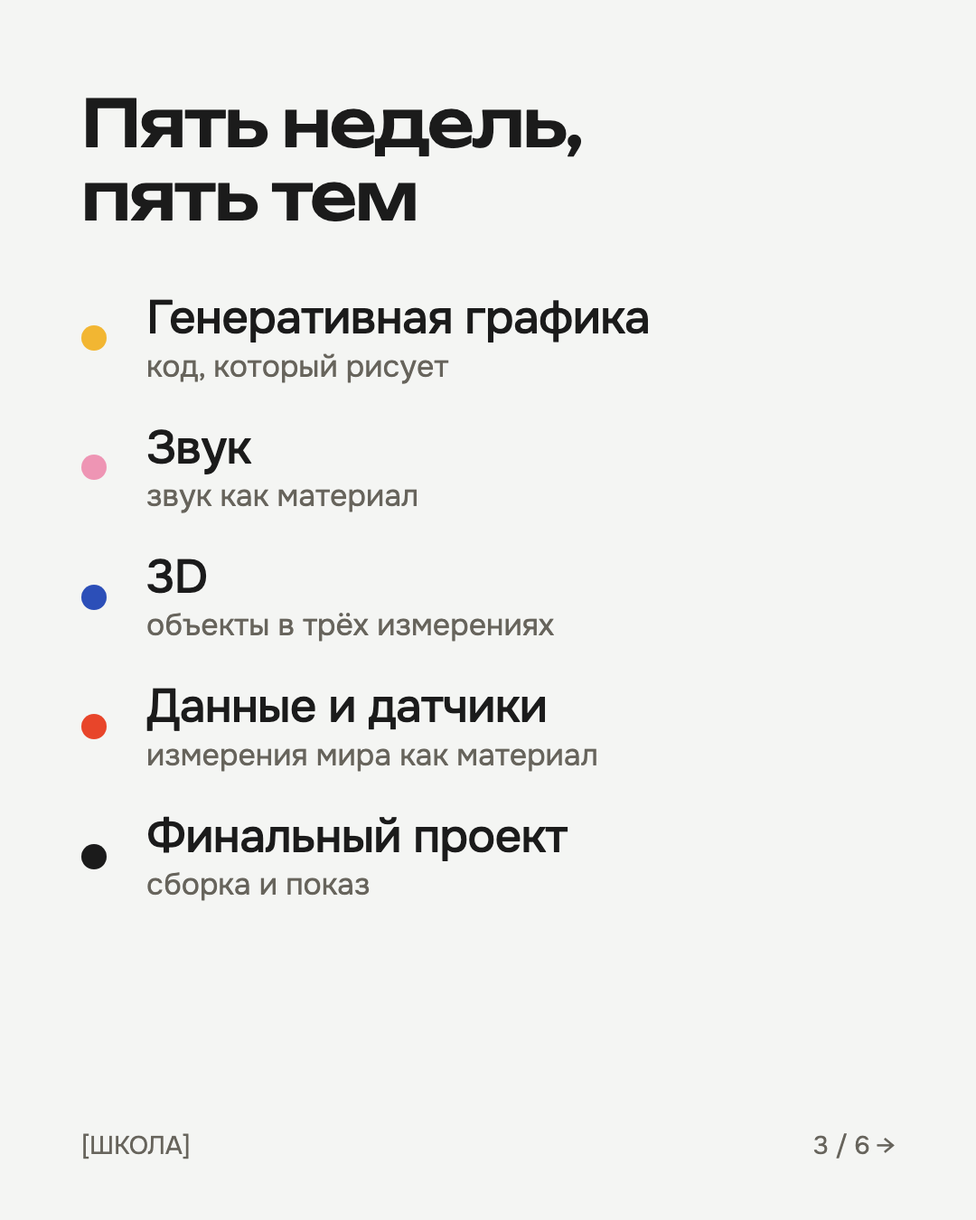
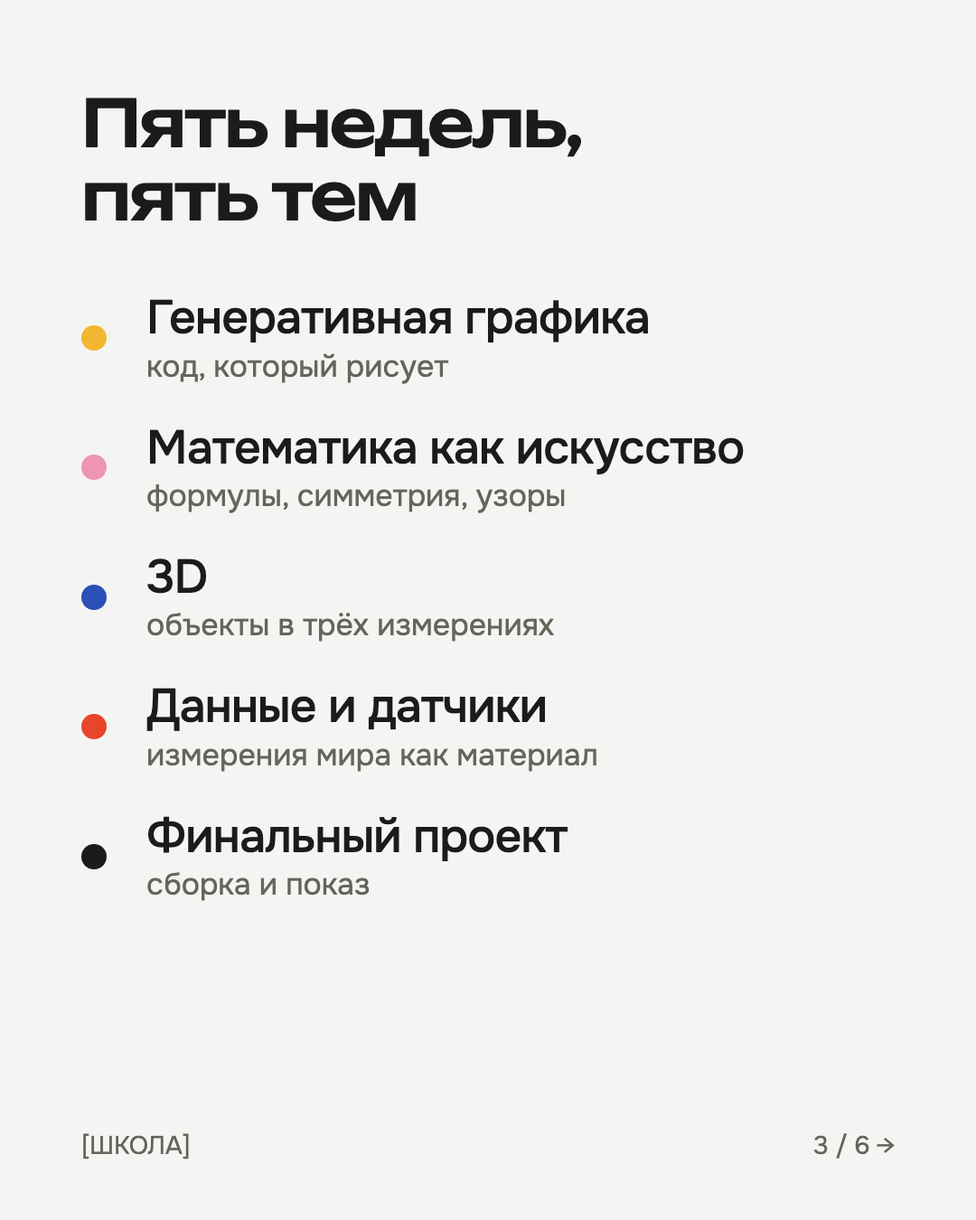
Week 2: replace 'Звук' with 'Математика как искусство' on all course pages and carousel (rose curves, spirograph mode)

Changed region(s): [[0.1528, 0.3422, 0.7639, 0.4356]]

diff --git a/creative-engineering-calder-ru.html b/creative-engineering-calder-ru.html
@@ -150,7 +150,7 @@
   <div class="blob y"></div><div class="blob p"></div>
   <div class="txt">
     <h1>Технологии как способ <em>думать</em> и создавать.</h1>
-    <p class="sub">Пять недель, чтобы собрать свои первые работы на стыке кода, звука, 3D и искусства. Не ещё один курс по робототехнике, а курс о том, как делать технологии со смыслом.</p>
+    <p class="sub">Пять недель, чтобы собрать свои первые работы на стыке кода, математики, 3D и искусства. Не ещё один курс по робототехнике, а курс о том, как делать технологии со смыслом.</p>
     <a href="#join" class="btn">Записаться: 50&nbsp;000&nbsp;₸</a>
   </div>
 
@@ -194,9 +194,9 @@
       </div>
 
       <div class="item">
-        <div class="art"><svg viewBox="0 0 200 200"><path d="M24 70 C 10 24, 98 6, 150 30 C 196 54, 192 128, 160 164 C 120 206, 40 178, 24 130 C 14 104, 30 90, 24 70 Z" fill="#ee95b4"/><path d="M28 100 q14,-40 28,0 t28,0 t28,0 t28,0 t28,0" fill="none" stroke="#2c4fb8" stroke-width="5" stroke-linecap="round"/><path d="M28 134 q14,-26 28,0 t28,0 t28,0 t28,0" fill="none" stroke="#1b1b1b" stroke-width="3" stroke-linecap="round"/></svg></div>
-        <p class="wk">Неделя 2</p><h3>Звук</h3>
-        <p>Звук как материал: синтез, записи, ритм и пространство. Собираем собственную звуковую композицию.</p>
+        <div class="art"><svg viewBox="0 0 200 200"><path d="M24 70 C 10 24, 98 6, 150 30 C 196 54, 192 128, 160 164 C 120 206, 40 178, 24 130 C 14 104, 30 90, 24 70 Z" fill="#ee95b4"/><path d="M154.0,100.0 L153.8,101.6 L153.2,103.2 L152.1,104.7 L150.6,106.2 L148.8,107.5 L146.6,108.6 L144.0,109.6 L141.1,110.4 L137.8,111.0 L134.3,111.3 L130.6,111.4 L126.7,111.3 L122.5,110.8 L118.3,110.1 L113.9,109.1 L109.5,107.8 L105.1,106.2 L100.6,104.4 L96.3,102.3 L92.0,100.0 L87.9,97.5 L83.9,94.7 L80.1,91.8 L76.5,88.7 L73.2,85.6 L70.1,82.3 L67.4,79.0 L64.9,75.6 L62.8,72.3 L61.0,69.0 L59.5,65.8 L58.4,62.7 L57.7,59.8 L57.2,57.1 L57.1,54.6 L57.3,52.3 L57.9,50.3 L58.6,48.6 L59.7,47.3 L61.0,46.3 L62.5,45.7 L64.2,45.4 L66.0,45.6 L68.0,46.1 L70.1,47.1 L72.2,48.4 L74.4,50.2 L76.5,52.3 L78.6,54.8 L80.7,57.7 L82.6,60.8 L84.4,64.4 L86.1,68.1 L87.6,72.2 L88.9,76.5 L90.0,80.9 L90.9,85.6 L91.5,90.3 L91.9,95.1 L92.0,100.0 L91.9,104.9 L91.5,109.7 L90.9,114.4 L90.0,119.1 L88.9,123.5 L87.6,127.8 L86.1,131.9 L84.4,135.6 L82.6,139.2 L80.7,142.3 L78.6,145.2 L76.5,147.7 L74.4,149.8 L72.2,151.6 L70.1,152.9 L68.0,153.9 L66.0,154.4 L64.2,154.6 L62.5,154.3 L61.0,153.7 L59.7,152.7 L58.6,151.4 L57.9,149.7 L57.3,147.7 L57.1,145.4 L57.2,142.9 L57.7,140.2 L58.4,137.3 L59.5,134.2 L61.0,131.0 L62.8,127.7 L64.9,124.4 L67.4,121.0 L70.1,117.7 L73.2,114.4 L76.5,111.3 L80.1,108.2 L83.9,105.3 L87.9,102.5 L92.0,100.0 L96.3,97.7 L100.6,95.6 L105.1,93.8 L109.5,92.2 L113.9,90.9 L118.3,89.9 L122.5,89.2 L126.7,88.7 L130.6,88.6 L134.3,88.7 L137.8,89.0 L141.1,89.6 L144.0,90.4 L146.6,91.4 L148.8,92.5 L150.6,93.8 L152.1,95.3 L153.2,96.8 L153.8,98.4 L154.0,100.0 L153.8,101.6 L153.2,103.2 L152.1,104.7 L150.6,106.2 L148.8,107.5 L146.6,108.6 L144.0,109.6 L141.1,110.4 L137.8,111.0 L134.3,111.3 L130.6,111.4 L126.7,111.3 L122.5,110.8 L118.3,110.1 L113.9,109.1 L109.5,107.8 L105.1,106.2 L100.6,104.4 L96.3,102.3 L92.0,100.0 L87.9,97.5 L83.9,94.7 L80.1,91.8 L76.5,88.7 L73.2,85.6 L70.1,82.3 L67.4,79.0 L64.9,75.6 L62.8,72.3 L61.0,69.0 L59.5,65.8 L58.4,62.7 L57.7,59.8 L57.2,57.1 L57.1,54.6 L57.3,52.3 L57.9,50.3 L58.6,48.6 L59.7,47.3 L61.0,46.3 L62.5,45.7 L64.2,45.4 L66.0,45.6 L68.0,46.1 L70.1,47.1 L72.2,48.4 L74.4,50.2 L76.5,52.3 L78.6,54.8 L80.7,57.7 L82.6,60.8 L84.4,64.4 L86.1,68.1 L87.6,72.2 L88.9,76.5 L90.0,80.9 L90.9,85.6 L91.5,90.3 L91.9,95.1 L92.0,100.0 L91.9,104.9 L91.5,109.7 L90.9,114.4 L90.0,119.1 L88.9,123.5 L87.6,127.8 L86.1,131.9 L84.4,135.6 L82.6,139.2 L80.7,142.3 L78.6,145.2 L76.5,147.7 L74.4,149.8 L72.2,151.6 L70.1,152.9 L68.0,153.9 L66.0,154.4 L64.2,154.6 L62.5,154.3 L61.0,153.7 L59.7,152.7 L58.6,151.4 L57.9,149.7 L57.3,147.7 L57.1,145.4 L57.2,142.9 L57.7,140.2 L58.4,137.3 L59.5,134.2 L61.0,131.0 L62.8,127.7 L64.9,124.4 L67.4,121.0 L70.1,117.7 L73.2,114.4 L76.5,111.3 L80.1,108.2 L83.9,105.3 L87.9,102.5 L92.0,100.0 L96.3,97.7 L100.6,95.6 L105.1,93.8 L109.5,92.2 L113.9,90.9 L118.3,89.9 L122.5,89.2 L126.7,88.7 L130.6,88.6 L134.3,88.7 L137.8,89.0 L141.1,89.6 L144.0,90.4 L146.6,91.4 L148.8,92.5 L150.6,93.8 L152.1,95.3 L153.2,96.8 L153.8,98.4 L154.0,100.0" fill="none" stroke="#2c4fb8" stroke-width="2.4" stroke-linejoin="round"/><path d="M132.0,100.0 L131.6,101.0 L130.6,102.0 L128.8,102.9 L126.5,103.6 L123.5,104.1 L119.9,104.4 L115.9,104.4 L111.6,104.2 L106.9,103.6 L102.0,102.7 L97.0,101.5 L92.0,100.0 L87.1,98.3 L82.3,96.3 L77.9,94.1 L73.7,91.9 L70.0,89.5 L66.8,87.2 L64.1,84.9 L62.0,82.7 L60.5,80.7 L59.6,79.0 L59.3,77.5 L59.6,76.5 L60.5,75.9 L62.0,75.7 L63.9,76.0 L66.3,76.8 L69.0,78.2 L72.0,80.0 L75.2,82.3 L78.6,85.1 L82.1,88.4 L85.5,92.0 L88.8,95.9 L92.0,100.0 L95.0,104.3 L97.6,108.7 L100.0,113.1 L102.0,117.3 L103.6,121.4 L104.8,125.2 L105.7,128.6 L106.1,131.6 L106.1,134.1 L105.8,136.1 L105.2,137.4 L104.4,138.0 L103.3,138.0 L102.0,137.3 L100.6,135.9 L99.2,133.9 L97.8,131.2 L96.4,127.9 L95.2,124.1 L94.1,119.9 L93.2,115.3 L92.5,110.3 L92.1,105.2 L92.0,100.0 L92.1,94.8 L92.5,89.7 L93.2,84.7 L94.1,80.1 L95.2,75.9 L96.4,72.1 L97.8,68.8 L99.2,66.1 L100.6,64.1 L102.0,62.7 L103.3,62.0 L104.4,62.0 L105.2,62.6 L105.8,63.9 L106.1,65.9 L106.1,68.4 L105.7,71.4 L104.8,74.8 L103.6,78.6 L102.0,82.7 L100.0,86.9 L97.6,91.3 L95.0,95.7 L92.0,100.0 L88.8,104.1 L85.5,108.0 L82.1,111.6 L78.6,114.9 L75.2,117.7 L72.0,120.0 L69.0,121.8 L66.3,123.2 L63.9,124.0 L62.0,124.3 L60.5,124.1 L59.6,123.5 L59.3,122.5 L59.6,121.0 L60.5,119.3 L62.0,117.3 L64.1,115.1 L66.8,112.8 L70.0,110.5 L73.7,108.1 L77.9,105.9 L82.3,103.7 L87.1,101.7 L92.0,100.0 L97.0,98.5 L102.0,97.3 L106.9,96.4 L111.6,95.8 L115.9,95.6 L119.9,95.6 L123.5,95.9 L126.5,96.4 L128.8,97.1 L130.6,98.0 L131.6,99.0 L132.0,100.0 L131.6,101.0 L130.6,102.0 L128.8,102.9 L126.5,103.6 L123.5,104.1 L119.9,104.4 L115.9,104.4 L111.6,104.2 L106.9,103.6 L102.0,102.7 L97.0,101.5 L92.0,100.0 L87.1,98.3 L82.3,96.3 L77.9,94.1 L73.7,91.9 L70.0,89.5 L66.8,87.2 L64.1,84.9 L62.0,82.7 L60.5,80.7 L59.6,79.0 L59.3,77.5 L59.6,76.5 L60.5,75.9 L62.0,75.7 L63.9,76.0 L66.3,76.8 L69.0,78.2 L72.0,80.0 L75.2,82.3 L78.6,85.1 L82.1,88.4 L85.5,92.0 L88.8,95.9 L92.0,100.0 L95.0,104.3 L97.6,108.7 L100.0,113.1 L102.0,117.3 L103.6,121.4 L104.8,125.2 L105.7,128.6 L106.1,131.6 L106.1,134.1 L105.8,136.1 L105.2,137.4 L104.4,138.0 L103.3,138.0 L102.0,137.3 L100.6,135.9 L99.2,133.9 L97.8,131.2 L96.4,127.9 L95.2,124.1 L94.1,119.9 L93.2,115.3 L92.5,110.3 L92.1,105.2 L92.0,100.0 L92.1,94.8 L92.5,89.7 L93.2,84.7 L94.1,80.1 L95.2,75.9 L96.4,72.1 L97.8,68.8 L99.2,66.1 L100.6,64.1 L102.0,62.7 L103.3,62.0 L104.4,62.0 L105.2,62.6 L105.8,63.9 L106.1,65.9 L106.1,68.4 L105.7,71.4 L104.8,74.8 L103.6,78.6 L102.0,82.7 L100.0,86.9 L97.6,91.3 L95.0,95.7 L92.0,100.0 L88.8,104.1 L85.5,108.0 L82.1,111.6 L78.6,114.9 L75.2,117.7 L72.0,120.0 L69.0,121.8 L66.3,123.2 L63.9,124.0 L62.0,124.3 L60.5,124.1 L59.6,123.5 L59.3,122.5 L59.6,121.0 L60.5,119.3 L62.0,117.3 L64.1,115.1 L66.8,112.8 L70.0,110.5 L73.7,108.1 L77.9,105.9 L82.3,103.7 L87.1,101.7 L92.0,100.0 L97.0,98.5 L102.0,97.3 L106.9,96.4 L111.6,95.8 L115.9,95.6 L119.9,95.6 L123.5,95.9 L126.5,96.4 L128.8,97.1 L130.6,98.0 L131.6,99.0 L132.0,100.0" fill="none" stroke="#1b1b1b" stroke-width="1.6" stroke-linejoin="round"/></svg></div>
+        <p class="wk">Неделя 2</p><h3>Математика как искусство</h3>
+        <p>Формулы, симметрия, фракталы и узоры: превращаем уравнения в картинки и орнаменты.</p>
       </div>
 
       <div class="item">
@@ -225,7 +225,7 @@
 <section id="skills">
   <h2>Чему вы научитесь</h2>
   <ul class="rows">
-    <li><i class="dot" style="width:26px;height:26px;background:var(--yellow)"></i><b>Технические навыки</b><span>код, звук, 3D, чтобы довести идею до работы</span></li>
+    <li><i class="dot" style="width:26px;height:26px;background:var(--yellow)"></i><b>Технические навыки</b><span>код, математика, 3D, чтобы довести идею до работы</span></li>
     <li><i class="dot" style="width:18px;height:18px;background:var(--pink)"></i><b>Критическое мышление</b><span>задавать вопросы технологиям, а не принимать как данность</span></li>
     <li><i class="dot" style="width:30px;height:30px;background:var(--red)"></i><b>Работа в команде</b><span>роли, обратная связь, общий результат</span></li>
     <li><i class="dot" style="width:14px;height:14px;background:var(--blue)"></i><b>Презентация</b><span>рассказать о работе так, чтобы её захотели посмотреть</span></li>

diff --git a/creative-engineering-ru.html b/creative-engineering-ru.html
@@ -82,7 +82,7 @@
 
 <section class="hero">
   <h1>Технологии как способ&nbsp;думать и&nbsp;создавать.</h1>
-  <div class="sub">Пять недель, чтобы собрать свои первые работы на стыке кода, звука, 3D и искусства. Не ещё один курс по робототехнике — курс о том, как делать технологии со смыслом.</div>
+  <div class="sub">Пять недель, чтобы собрать свои первые работы на стыке кода, математики, 3D и искусства. Не ещё один курс по робототехнике — курс о том, как делать технологии со смыслом.</div>
   <div class="facts">
     <div class="grid">
       <div><p class="k">Возраст</p>14–19 лет</div>
@@ -120,9 +120,9 @@
   </div>
   <div class="grid week">
     <div class="num">02</div>
-    <div><h3>Звук</h3></div>
-    <p>Звук как материал: синтез, записи, ритм и пространство. Собираем собственную звуковую композицию.</p>
-    <div class="fig"><i style="left:6%;top:48%;width:88%;height:1px;background:#111"></i><i style="left:14%;top:30%;width:3%;height:40%;background:#111"></i><i style="left:26%;top:18%;width:3%;height:64%;background:#111"></i><i style="left:38%;top:38%;width:3%;height:24%;background:var(--accent)"></i><i style="left:50%;top:10%;width:3%;height:80%;background:#111"></i><i style="left:62%;top:34%;width:3%;height:32%;background:#111"></i><i style="left:74%;top:22%;width:3%;height:56%;background:#111"></i></div>
+    <div><h3>Математика как искусство</h3></div>
+    <p>Формулы, симметрия, фракталы и узоры: превращаем уравнения в картинки и орнаменты.</p>
+    <div class="fig"><svg viewBox="0 0 200 120" style="width:100%;height:100%;position:absolute;inset:0"><rect width="200" height="120" fill="#f3f3f3"/><path d="M150.0,60.0 L149.8,61.3 L149.3,62.6 L148.5,63.8 L147.3,65.0 L145.8,66.0 L144.0,67.0 L141.9,67.8 L139.6,68.4 L137.0,68.9 L134.2,69.2 L131.1,69.2 L128.0,69.1 L124.6,68.7 L121.2,68.1 L117.7,67.3 L114.1,66.3 L110.5,65.0 L107.0,63.6 L103.4,61.9 L100.0,60.0 L96.7,58.0 L93.4,55.7 L90.4,53.4 L87.5,50.9 L84.8,48.4 L82.4,45.7 L80.1,43.0 L78.2,40.3 L76.4,37.6 L75.0,35.0 L73.8,32.4 L72.9,29.9 L72.3,27.6 L72.0,25.4 L71.9,23.4 L72.0,21.5 L72.5,19.9 L73.1,18.6 L74.0,17.5 L75.0,16.7 L76.2,16.2 L77.6,16.0 L79.1,16.1 L80.7,16.6 L82.3,17.3 L84.0,18.4 L85.8,19.8 L87.5,21.5 L89.2,23.5 L90.8,25.8 L92.4,28.4 L93.9,31.3 L95.2,34.3 L96.4,37.6 L97.5,41.0 L98.4,44.6 L99.1,48.4 L99.6,52.2 L99.9,56.1 L100.0,60.0 L99.9,63.9 L99.6,67.8 L99.1,71.6 L98.4,75.4 L97.5,79.0 L96.4,82.4 L95.2,85.7 L93.9,88.7 L92.4,91.6 L90.8,94.2 L89.2,96.5 L87.5,98.5 L85.8,100.2 L84.0,101.6 L82.3,102.7 L80.7,103.4 L79.1,103.9 L77.6,104.0 L76.2,103.8 L75.0,103.3 L74.0,102.5 L73.1,101.4 L72.5,100.1 L72.0,98.5 L71.9,96.6 L72.0,94.6 L72.3,92.4 L72.9,90.1 L73.8,87.6 L75.0,85.0 L76.4,82.4 L78.2,79.7 L80.1,77.0 L82.4,74.3 L84.8,71.6 L87.5,69.1 L90.4,66.6 L93.4,64.3 L96.7,62.0 L100.0,60.0 L103.4,58.1 L107.0,56.4 L110.5,55.0 L114.1,53.7 L117.7,52.7 L121.2,51.9 L124.6,51.3 L128.0,50.9 L131.1,50.8 L134.2,50.8 L137.0,51.1 L139.6,51.6 L141.9,52.2 L144.0,53.0 L145.8,54.0 L147.3,55.0 L148.5,56.2 L149.3,57.4 L149.8,58.7 L150.0,60.0 L149.8,61.3 L149.3,62.6 L148.5,63.8 L147.3,65.0 L145.8,66.0 L144.0,67.0 L141.9,67.8 L139.6,68.4 L137.0,68.9 L134.2,69.2 L131.1,69.2 L128.0,69.1 L124.6,68.7 L121.2,68.1 L117.7,67.3 L114.1,66.3 L110.5,65.0 L107.0,63.6 L103.4,61.9 L100.0,60.0 L96.7,58.0 L93.4,55.7 L90.4,53.4 L87.5,50.9 L84.8,48.4 L82.4,45.7 L80.1,43.0 L78.2,40.3 L76.4,37.6 L75.0,35.0 L73.8,32.4 L72.9,29.9 L72.3,27.6 L72.0,25.4 L71.9,23.4 L72.0,21.5 L72.5,19.9 L73.1,18.6 L74.0,17.5 L75.0,16.7 L76.2,16.2 L77.6,16.0 L79.1,16.1 L80.7,16.6 L82.3,17.3 L84.0,18.4 L85.8,19.8 L87.5,21.5 L89.2,23.5 L90.8,25.8 L92.4,28.4 L93.9,31.3 L95.2,34.3 L96.4,37.6 L97.5,41.0 L98.4,44.6 L99.1,48.4 L99.6,52.2 L99.9,56.1 L100.0,60.0 L99.9,63.9 L99.6,67.8 L99.1,71.6 L98.4,75.4 L97.5,79.0 L96.4,82.4 L95.2,85.7 L93.9,88.7 L92.4,91.6 L90.8,94.2 L89.2,96.5 L87.5,98.5 L85.8,100.2 L84.0,101.6 L82.3,102.7 L80.7,103.4 L79.1,103.9 L77.6,104.0 L76.2,103.8 L75.0,103.3 L74.0,102.5 L73.1,101.4 L72.5,100.1 L72.0,98.5 L71.9,96.6 L72.0,94.6 L72.3,92.4 L72.9,90.1 L73.8,87.6 L75.0,85.0 L76.4,82.4 L78.2,79.7 L80.1,77.0 L82.4,74.3 L84.8,71.6 L87.5,69.1 L90.4,66.6 L93.4,64.3 L96.7,62.0 L100.0,60.0 L103.4,58.1 L107.0,56.4 L110.5,55.0 L114.1,53.7 L117.7,52.7 L121.2,51.9 L124.6,51.3 L128.0,50.9 L131.1,50.8 L134.2,50.8 L137.0,51.1 L139.6,51.6 L141.9,52.2 L144.0,53.0 L145.8,54.0 L147.3,55.0 L148.5,56.2 L149.3,57.4 L149.8,58.7 L150.0,60.0" fill="none" stroke="#111" stroke-width="1.6" stroke-linejoin="round"/><path d="M134.0,60.0 L133.7,60.9 L132.8,61.7 L131.3,62.5 L129.3,63.1 L126.7,63.5 L123.7,63.8 L120.4,63.8 L116.6,63.5 L112.7,63.0 L108.5,62.3 L104.3,61.3 L100.0,60.0 L95.8,58.5 L91.8,56.8 L88.0,55.0 L84.5,53.1 L81.3,51.1 L78.6,49.1 L76.3,47.1 L74.5,45.3 L73.2,43.6 L72.5,42.1 L72.2,40.9 L72.5,40.0 L73.3,39.5 L74.5,39.3 L76.1,39.6 L78.1,40.3 L80.4,41.4 L83.0,43.0 L85.8,45.0 L88.6,47.4 L91.5,50.1 L94.5,53.2 L97.3,56.5 L100.0,60.0 L102.5,63.7 L104.8,67.4 L106.8,71.1 L108.5,74.7 L109.9,78.2 L110.9,81.4 L111.6,84.3 L112.0,86.9 L112.0,89.0 L111.8,90.7 L111.3,91.8 L110.5,92.3 L109.6,92.3 L108.5,91.7 L107.3,90.5 L106.1,88.8 L104.9,86.5 L103.8,83.7 L102.7,80.5 L101.8,76.9 L101.0,73.0 L100.5,68.8 L100.1,64.4 L100.0,60.0 L100.1,55.6 L100.5,51.2 L101.0,47.0 L101.8,43.1 L102.7,39.5 L103.8,36.3 L104.9,33.5 L106.1,31.2 L107.3,29.5 L108.5,28.3 L109.6,27.7 L110.5,27.7 L111.3,28.2 L111.8,29.3 L112.0,31.0 L112.0,33.1 L111.6,35.7 L110.9,38.6 L109.9,41.8 L108.5,45.3 L106.8,48.9 L104.8,52.6 L102.5,56.3 L100.0,60.0 L97.3,63.5 L94.5,66.8 L91.5,69.9 L88.6,72.6 L85.8,75.0 L83.0,77.0 L80.4,78.6 L78.1,79.7 L76.1,80.4 L74.5,80.7 L73.3,80.5 L72.5,80.0 L72.2,79.1 L72.5,77.9 L73.2,76.4 L74.5,74.7 L76.3,72.9 L78.6,70.9 L81.3,68.9 L84.5,66.9 L88.0,65.0 L91.8,63.2 L95.8,61.5 L100.0,60.0 L104.3,58.7 L108.5,57.7 L112.7,57.0 L116.6,56.5 L120.4,56.2 L123.7,56.2 L126.7,56.5 L129.3,56.9 L131.3,57.5 L132.8,58.3 L133.7,59.1 L134.0,60.0 L133.7,60.9 L132.8,61.7 L131.3,62.5 L129.3,63.1 L126.7,63.5 L123.7,63.8 L120.4,63.8 L116.6,63.5 L112.7,63.0 L108.5,62.3 L104.3,61.3 L100.0,60.0 L95.8,58.5 L91.8,56.8 L88.0,55.0 L84.5,53.1 L81.3,51.1 L78.6,49.1 L76.3,47.1 L74.5,45.3 L73.2,43.6 L72.5,42.1 L72.2,40.9 L72.5,40.0 L73.3,39.5 L74.5,39.3 L76.1,39.6 L78.1,40.3 L80.4,41.4 L83.0,43.0 L85.8,45.0 L88.6,47.4 L91.5,50.1 L94.5,53.2 L97.3,56.5 L100.0,60.0 L102.5,63.7 L104.8,67.4 L106.8,71.1 L108.5,74.7 L109.9,78.2 L110.9,81.4 L111.6,84.3 L112.0,86.9 L112.0,89.0 L111.8,90.7 L111.3,91.8 L110.5,92.3 L109.6,92.3 L108.5,91.7 L107.3,90.5 L106.1,88.8 L104.9,86.5 L103.8,83.7 L102.7,80.5 L101.8,76.9 L101.0,73.0 L100.5,68.8 L100.1,64.4 L100.0,60.0 L100.1,55.6 L100.5,51.2 L101.0,47.0 L101.8,43.1 L102.7,39.5 L103.8,36.3 L104.9,33.5 L106.1,31.2 L107.3,29.5 L108.5,28.3 L109.6,27.7 L110.5,27.7 L111.3,28.2 L111.8,29.3 L112.0,31.0 L112.0,33.1 L111.6,35.7 L110.9,38.6 L109.9,41.8 L108.5,45.3 L106.8,48.9 L104.8,52.6 L102.5,56.3 L100.0,60.0 L97.3,63.5 L94.5,66.8 L91.5,69.9 L88.6,72.6 L85.8,75.0 L83.0,77.0 L80.4,78.6 L78.1,79.7 L76.1,80.4 L74.5,80.7 L73.3,80.5 L72.5,80.0 L72.2,79.1 L72.5,77.9 L73.2,76.4 L74.5,74.7 L76.3,72.9 L78.6,70.9 L81.3,68.9 L84.5,66.9 L88.0,65.0 L91.8,63.2 L95.8,61.5 L100.0,60.0 L104.3,58.7 L108.5,57.7 L112.7,57.0 L116.6,56.5 L120.4,56.2 L123.7,56.2 L126.7,56.5 L129.3,56.9 L131.3,57.5 L132.8,58.3 L133.7,59.1 L134.0,60.0" fill="none" stroke="var(--accent)" stroke-width="1.6" stroke-linejoin="round"/></svg></div>
   </div>
   <div class="grid week">
     <div class="num">03</div>
@@ -149,7 +149,7 @@
   <div class="grid">
     <div class="name">Чему вы научитесь</div>
     <ul class="skills">
-      <li><b>Технические навыки</b><span>код, звук, 3D — на уровне, достаточном, чтобы довести свою идею до работы.</span></li>
+      <li><b>Технические навыки</b><span>код, математика, 3D — на уровне, достаточном, чтобы довести свою идею до работы.</span></li>
       <li><b>Критическое мышление</b><span>задавать вопросы технологиям и их влиянию, а не принимать как данность.</span></li>
       <li><b>Работа в команде</b><span>делать проекты вместе, распределять роли, давать и принимать обратную связь.</span></li>
       <li><b>Презентация</b><span>рассказывать о своей работе так, чтобы её поняли и захотели посмотреть.</span></li>

diff --git a/creative-engineering-quiet-ru.html b/creative-engineering-quiet-ru.html
@@ -111,7 +111,7 @@
       <!-- Блоки 1–3 названы автором курса; 4 и 5 — предложение, не подтверждено -->
       <ol class="weeks">
         <li tabindex="0"><i class="d" style="background:var(--yellow)"></i><b>Генеративная графика</b><span>код, который рисует</span></li>
-        <li tabindex="0"><i class="d" style="background:var(--pink)"></i><b>Звук</b><span>звук как материал</span></li>
+        <li tabindex="0"><i class="d" style="background:var(--pink)"></i><b>Математика как искусство</b><span>формулы, симметрия, узоры</span></li>
         <li tabindex="0"><i class="d" style="background:var(--blue)"></i><b>3D</b><span>объекты в трёх измерениях</span></li>
         <li tabindex="0"><i class="d" style="background:var(--red)"></i><b>Данные и датчики</b><span>измерения мира как материал</span></li>
         <li tabindex="0"><i class="d" style="background:var(--ink)"></i><b>Финальный проект</b><span>сборка и показ</span></li>
@@ -205,7 +205,7 @@
   for (var i = 0; i < 8; i++) { var an = i * Math.PI / 4; dots += '<circle cx="' + (52 * Math.cos(an)).toFixed(1) + '" cy="' + (54 + 52 * Math.sin(an)).toFixed(1) + '" r="3.6" fill="' + INK + '"/>'; }
   var SH = {
     spiral: { h: 100, svg: '<circle cx="0" cy="54" r="46" fill="' + YEL + '"/><path d="' + spiral() + '" fill="none" stroke="' + INK + '" stroke-width="4.5" stroke-linecap="round" stroke-linejoin="round"/>' },
-    leaf: { h: 124, svg: '<path d="M0,6 C48,30 48,92 0,124 C-48,92 -48,30 0,6 Z" fill="' + PINK + '"/><path d="M-24,46 q12,-14 24,0 t24,0" fill="none" stroke="' + BLUE + '" stroke-width="3.5" stroke-linecap="round"/><path d="M-26,70 q13,-14 26,0 t26,0" fill="none" stroke="' + INK + '" stroke-width="3" stroke-linecap="round"/><path d="M-20,94 q10,-12 20,0 t20,0" fill="none" stroke="' + BLUE + '" stroke-width="3.5" stroke-linecap="round"/>' },
+    leaf: { h: 124, svg: '<path d="M0,6 C48,30 48,92 0,124 C-48,92 -48,30 0,6 Z" fill="' + PINK + '"/><path d="M34.0,66.0 L33.9,66.9 L33.5,67.8 L33.0,68.6 L32.2,69.4 L31.1,70.1 L29.9,70.7 L28.5,71.3 L26.9,71.7 L25.1,72.0 L23.2,72.2 L21.2,72.3 L19.0,72.2 L16.7,71.9 L14.4,71.5 L12.0,71.0 L9.6,70.3 L7.2,69.4 L4.7,68.4 L2.3,67.3 L0.0,66.0 L-2.3,64.6 L-4.5,63.1 L-6.5,61.5 L-8.5,59.8 L-10.3,58.1 L-12.0,56.3 L-13.5,54.5 L-14.9,52.6 L-16.0,50.8 L-17.0,49.0 L-17.8,47.2 L-18.4,45.6 L-18.8,44.0 L-19.1,42.5 L-19.1,41.1 L-19.0,39.8 L-18.7,38.8 L-18.3,37.8 L-17.7,37.1 L-17.0,36.6 L-16.2,36.2 L-15.2,36.1 L-14.2,36.2 L-13.2,36.5 L-12.0,37.0 L-10.9,37.7 L-9.7,38.7 L-8.5,39.8 L-7.3,41.2 L-6.2,42.8 L-5.2,44.5 L-4.2,46.5 L-3.2,48.5 L-2.4,50.8 L-1.7,53.1 L-1.1,55.6 L-0.6,58.1 L-0.3,60.7 L-0.1,63.3 L-0.0,66.0 L-0.1,68.7 L-0.3,71.3 L-0.6,73.9 L-1.1,76.4 L-1.7,78.9 L-2.4,81.2 L-3.2,83.5 L-4.2,85.5 L-5.2,87.5 L-6.2,89.2 L-7.3,90.8 L-8.5,92.2 L-9.7,93.3 L-10.9,94.3 L-12.0,95.0 L-13.2,95.5 L-14.2,95.8 L-15.2,95.9 L-16.2,95.8 L-17.0,95.4 L-17.7,94.9 L-18.3,94.2 L-18.7,93.2 L-19.0,92.2 L-19.1,90.9 L-19.1,89.5 L-18.8,88.0 L-18.4,86.4 L-17.8,84.8 L-17.0,83.0 L-16.0,81.2 L-14.9,79.4 L-13.5,77.5 L-12.0,75.7 L-10.3,73.9 L-8.5,72.2 L-6.5,70.5 L-4.5,68.9 L-2.3,67.4 L-0.0,66.0 L2.3,64.7 L4.7,63.6 L7.2,62.6 L9.6,61.7 L12.0,61.0 L14.4,60.5 L16.7,60.1 L19.0,59.8 L21.2,59.7 L23.2,59.8 L25.1,60.0 L26.9,60.3 L28.5,60.7 L29.9,61.3 L31.1,61.9 L32.2,62.6 L33.0,63.4 L33.5,64.2 L33.9,65.1 L34.0,66.0 L33.9,66.9 L33.5,67.8 L33.0,68.6 L32.2,69.4 L31.1,70.1 L29.9,70.7 L28.5,71.3 L26.9,71.7 L25.1,72.0 L23.2,72.2 L21.2,72.3 L19.0,72.2 L16.7,71.9 L14.4,71.5 L12.0,71.0 L9.6,70.3 L7.2,69.4 L4.7,68.4 L2.3,67.3 L-0.0,66.0 L-2.3,64.6 L-4.5,63.1 L-6.5,61.5 L-8.5,59.8 L-10.3,58.1 L-12.0,56.3 L-13.5,54.5 L-14.9,52.6 L-16.0,50.8 L-17.0,49.0 L-17.8,47.2 L-18.4,45.6 L-18.8,44.0 L-19.1,42.5 L-19.1,41.1 L-19.0,39.8 L-18.7,38.8 L-18.3,37.8 L-17.7,37.1 L-17.0,36.6 L-16.2,36.2 L-15.2,36.1 L-14.2,36.2 L-13.2,36.5 L-12.0,37.0 L-10.9,37.7 L-9.7,38.7 L-8.5,39.8 L-7.3,41.2 L-6.2,42.8 L-5.2,44.5 L-4.2,46.5 L-3.2,48.5 L-2.4,50.8 L-1.7,53.1 L-1.1,55.6 L-0.6,58.1 L-0.3,60.7 L-0.1,63.3 L-0.0,66.0 L-0.1,68.7 L-0.3,71.3 L-0.6,73.9 L-1.1,76.4 L-1.7,78.9 L-2.4,81.2 L-3.2,83.5 L-4.2,85.5 L-5.2,87.5 L-6.2,89.2 L-7.3,90.8 L-8.5,92.2 L-9.7,93.3 L-10.9,94.3 L-12.0,95.0 L-13.2,95.5 L-14.2,95.8 L-15.2,95.9 L-16.2,95.8 L-17.0,95.4 L-17.7,94.9 L-18.3,94.2 L-18.7,93.2 L-19.0,92.2 L-19.1,90.9 L-19.1,89.5 L-18.8,88.0 L-18.4,86.4 L-17.8,84.8 L-17.0,83.0 L-16.0,81.2 L-14.9,79.4 L-13.5,77.5 L-12.0,75.7 L-10.3,73.9 L-8.5,72.2 L-6.5,70.5 L-4.5,68.9 L-2.3,67.4 L-0.0,66.0 L2.3,64.7 L4.7,63.6 L7.2,62.6 L9.6,61.7 L12.0,61.0 L14.4,60.5 L16.7,60.1 L19.0,59.8 L21.2,59.7 L23.2,59.8 L25.1,60.0 L26.9,60.3 L28.5,60.7 L29.9,61.3 L31.1,61.9 L32.2,62.6 L33.0,63.4 L33.5,64.2 L33.9,65.1 L34.0,66.0" fill="none" stroke="' + BLUE + '" stroke-width="2.6" stroke-linejoin="round"/><path d="M24.0,66.0 L23.8,66.6 L23.2,67.2 L22.1,67.7 L20.7,68.2 L18.9,68.5 L16.8,68.7 L14.4,68.7 L11.7,68.5 L8.9,68.1 L6.0,67.6 L3.0,66.9 L0.0,66.0 L-3.0,65.0 L-5.8,63.8 L-8.5,62.5 L-11.0,61.1 L-13.2,59.7 L-15.1,58.3 L-16.7,56.9 L-18.0,55.6 L-18.9,54.4 L-19.4,53.4 L-19.6,52.5 L-19.4,51.9 L-18.9,51.5 L-18.0,51.4 L-16.9,51.6 L-15.4,52.1 L-13.8,52.9 L-12.0,54.0 L-10.1,55.4 L-8.0,57.1 L-6.0,59.0 L-3.9,61.2 L-1.9,63.5 L-0.0,66.0 L1.8,68.6 L3.4,71.2 L4.8,73.8 L6.0,76.4 L7.0,78.8 L7.7,81.1 L8.2,83.2 L8.5,85.0 L8.5,86.5 L8.3,87.6 L7.9,88.4 L7.4,88.8 L6.8,88.8 L6.0,88.4 L5.2,87.6 L4.3,86.3 L3.5,84.7 L2.7,82.8 L1.9,80.5 L1.3,77.9 L0.7,75.2 L0.3,72.2 L0.1,69.1 L0.0,66.0 L0.1,62.9 L0.3,59.8 L0.7,56.8 L1.3,54.1 L1.9,51.5 L2.7,49.2 L3.5,47.3 L4.3,45.7 L5.2,44.4 L6.0,43.6 L6.8,43.2 L7.4,43.2 L7.9,43.6 L8.3,44.4 L8.5,45.5 L8.5,47.0 L8.2,48.8 L7.7,50.9 L7.0,53.2 L6.0,55.6 L4.8,58.2 L3.4,60.8 L1.8,63.4 L0.0,66.0 L-1.9,68.5 L-3.9,70.8 L-6.0,73.0 L-8.0,74.9 L-10.1,76.6 L-12.0,78.0 L-13.8,79.1 L-15.4,79.9 L-16.9,80.4 L-18.0,80.6 L-18.9,80.5 L-19.4,80.1 L-19.6,79.5 L-19.4,78.6 L-18.9,77.6 L-18.0,76.4 L-16.7,75.1 L-15.1,73.7 L-13.2,72.3 L-11.0,70.9 L-8.5,69.5 L-5.8,68.2 L-3.0,67.0 L-0.0,66.0 L3.0,65.1 L6.0,64.4 L8.9,63.9 L11.7,63.5 L14.4,63.3 L16.8,63.3 L18.9,63.5 L20.7,63.8 L22.1,64.3 L23.2,64.8 L23.8,65.4 L24.0,66.0 L23.8,66.6 L23.2,67.2 L22.1,67.7 L20.7,68.2 L18.9,68.5 L16.8,68.7 L14.4,68.7 L11.7,68.5 L8.9,68.1 L6.0,67.6 L3.0,66.9 L-0.0,66.0 L-3.0,65.0 L-5.8,63.8 L-8.5,62.5 L-11.0,61.1 L-13.2,59.7 L-15.1,58.3 L-16.7,56.9 L-18.0,55.6 L-18.9,54.4 L-19.4,53.4 L-19.6,52.5 L-19.4,51.9 L-18.9,51.5 L-18.0,51.4 L-16.9,51.6 L-15.4,52.1 L-13.8,52.9 L-12.0,54.0 L-10.1,55.4 L-8.0,57.1 L-6.0,59.0 L-3.9,61.2 L-1.9,63.5 L0.0,66.0 L1.8,68.6 L3.4,71.2 L4.8,73.8 L6.0,76.4 L7.0,78.8 L7.7,81.1 L8.2,83.2 L8.5,85.0 L8.5,86.5 L8.3,87.6 L7.9,88.4 L7.4,88.8 L6.8,88.8 L6.0,88.4 L5.2,87.6 L4.3,86.3 L3.5,84.7 L2.7,82.8 L1.9,80.5 L1.3,77.9 L0.7,75.2 L0.3,72.2 L0.1,69.1 L0.0,66.0 L0.1,62.9 L0.3,59.8 L0.7,56.8 L1.3,54.1 L1.9,51.5 L2.7,49.2 L3.5,47.3 L4.3,45.7 L5.2,44.4 L6.0,43.6 L6.8,43.2 L7.4,43.2 L7.9,43.6 L8.3,44.4 L8.5,45.5 L8.5,47.0 L8.2,48.8 L7.7,50.9 L7.0,53.2 L6.0,55.6 L4.8,58.2 L3.4,60.8 L1.8,63.4 L-0.0,66.0 L-1.9,68.5 L-3.9,70.8 L-6.0,73.0 L-8.0,74.9 L-10.1,76.6 L-12.0,78.0 L-13.8,79.1 L-15.4,79.9 L-16.9,80.4 L-18.0,80.6 L-18.9,80.5 L-19.4,80.1 L-19.6,79.5 L-19.4,78.6 L-18.9,77.6 L-18.0,76.4 L-16.7,75.1 L-15.1,73.7 L-13.2,72.3 L-11.0,70.9 L-8.5,69.5 L-5.8,68.2 L-3.0,67.0 L-0.0,66.0 L3.0,65.1 L6.0,64.4 L8.9,63.9 L11.7,63.5 L14.4,63.3 L16.8,63.3 L18.9,63.5 L20.7,63.8 L22.1,64.3 L23.2,64.8 L23.8,65.4 L24.0,66.0" fill="none" stroke="' + INK + '" stroke-width="1.6" stroke-linejoin="round"/>' },
     cube: { h: 100, svg: '<path d="M0,10 L40,32 L0,54 L-40,32 Z" fill="' + LB + '" stroke="' + INK + '" stroke-width=".8"/><path d="M-40,32 L0,54 L0,100 L-40,78 Z" fill="' + BLUE + '" stroke="' + INK + '" stroke-width=".8"/><path d="M0,54 L40,32 L40,78 L0,100 Z" fill="#1f3a8a" stroke="' + INK + '" stroke-width=".8"/>' },
     sensor: { h: 108, svg: '<circle cx="0" cy="54" r="34" fill="none" stroke="' + RED + '" stroke-width="9"/>' + dots + '<path d="M0,44 V28 M0,64 V80 M-10,54 H-26 M10,54 H26" stroke="' + INK + '" stroke-width="1.4"/><circle cx="0" cy="54" r="10" fill="#fff" stroke="' + INK + '" stroke-width="2"/>' },
     star: { h: 98, svg: '<g transform="translate(0,56)"><ellipse rx="6" ry="42" fill="' + INK + '"/><ellipse rx="6" ry="42" fill="' + INK + '" transform="rotate(60)"/><ellipse rx="6" ry="42" fill="' + INK + '" transform="rotate(120)"/><circle r="12" fill="' + YEL + '" stroke="' + INK + '" stroke-width="2"/><circle r="4" fill="' + RED + '"/></g>' },

diff --git a/creative-engineering-flow-ru.html b/creative-engineering-flow-ru.html
@@ -112,7 +112,7 @@
       <!-- Блоки 1–3 названы автором курса; 4 и 5 — предложение, не подтверждено -->
       <ol class="weeks">
         <li tabindex="0"><i class="d" style="background:var(--yellow)"></i><b>Генеративная графика</b><span>код, который рисует</span></li>
-        <li tabindex="0"><i class="d" style="background:var(--pink)"></i><b>Звук</b><span>звук как материал</span></li>
+        <li tabindex="0"><i class="d" style="background:var(--pink)"></i><b>Математика как искусство</b><span>формулы, симметрия, узоры</span></li>
         <li tabindex="0"><i class="d" style="background:var(--blue)"></i><b>3D</b><span>объекты в трёх измерениях</span></li>
         <li tabindex="0"><i class="d" style="background:var(--red)"></i><b>Данные и датчики</b><span>измерения мира как материал</span></li>
         <li tabindex="0"><i class="d" style="background:var(--ink)"></i><b>Финальный проект</b><span>сборка и показ</span></li>
@@ -208,7 +208,7 @@
   var mode = 0, m = 0, mT = 0;
   var presets = [
     { spd: 1.0, sw: 0.9 },   // 0 generative graphics: free strands
-    { spd: 0.8, sw: 0.4 },   // 1 sound: standing rings
+    { spd: 0.8, sw: 0.4 },   // 1 math as art: spirograph curves
     { spd: 0.9, sw: 0.3 },   // 2 3D: rotating torus
     { spd: 1.0, sw: 0.2 },   // 3 data: scrolling grid
     { spd: 1.1, sw: 0.7 }    // 4 final: lissajous knot
@@ -217,8 +217,9 @@
   function target(i, t, out) {
     var u = U[i], k = K[i];
     if (mode === 1) {
-      var kk = k % 8, R = (kk + 1.2) * S * 0.13 * (1 + 0.05 * Math.sin(t * 2.3 + kk * 1.7)), th = u * TAU + t * (kk % 2 ? 0.25 : -0.2);
-      out[0] = CX + R * Math.cos(th); out[1] = CY + R * Math.sin(th);
+      var tau = u * TAU * 3, dd = 5 + 1.6 * Math.sin(t * 0.4), sc = S * 0.13 * (0.5 + 0.25 * (k % 3)), rt = t * 0.15;
+      var xx = 2 * Math.cos(tau) + dd * Math.cos(2 * tau / 3), yy = 2 * Math.sin(tau) - dd * Math.sin(2 * tau / 3);
+      out[0] = CX + sc * (xx * Math.cos(rt) - yy * Math.sin(rt)); out[1] = CY + sc * (xx * Math.sin(rt) + yy * Math.cos(rt));
     } else if (mode === 2) {
       var v = ((i * 0.61803) % 1) * TAU, R0 = S * 0.62, r = S * 0.26;
       var x3 = (R0 + r * Math.cos(v)) * Math.cos(u * TAU), y3 = (R0 + r * Math.cos(v)) * Math.sin(u * TAU), z3 = r * Math.sin(v);

diff --git a/carousel/index.html b/carousel/index.html
@@ -86,7 +86,7 @@
   <!-- Блоки 1–3 названы автором курса; 4 и 5 — предложение, не подтверждено -->
   <ul class="weeks">
     <li><i style="background:var(--yellow)"></i><div><b>Генеративная графика</b><span>код, который рисует</span></div></li>
-    <li><i style="background:var(--pink)"></i><div><b>Звук</b><span>звук как материал</span></div></li>
+    <li><i style="background:var(--pink)"></i><div><b>Математика как искусство</b><span>формулы, симметрия, узоры</span></div></li>
     <li><i style="background:var(--blue)"></i><div><b>3D</b><span>объекты в трёх измерениях</span></div></li>
     <li><i style="background:var(--red)"></i><div><b>Данные и датчики</b><span>измерения мира как материал</span></div></li>
     <li><i style="background:var(--ink)"></i><div><b>Финальный проект</b><span>сборка и показ</span></div></li>
